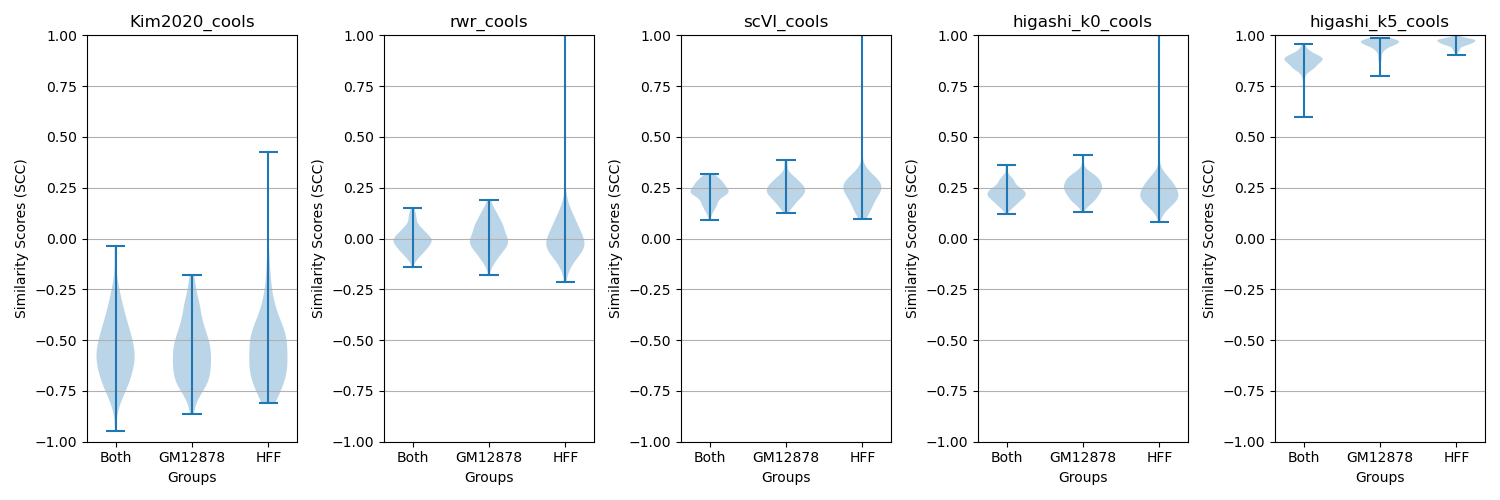
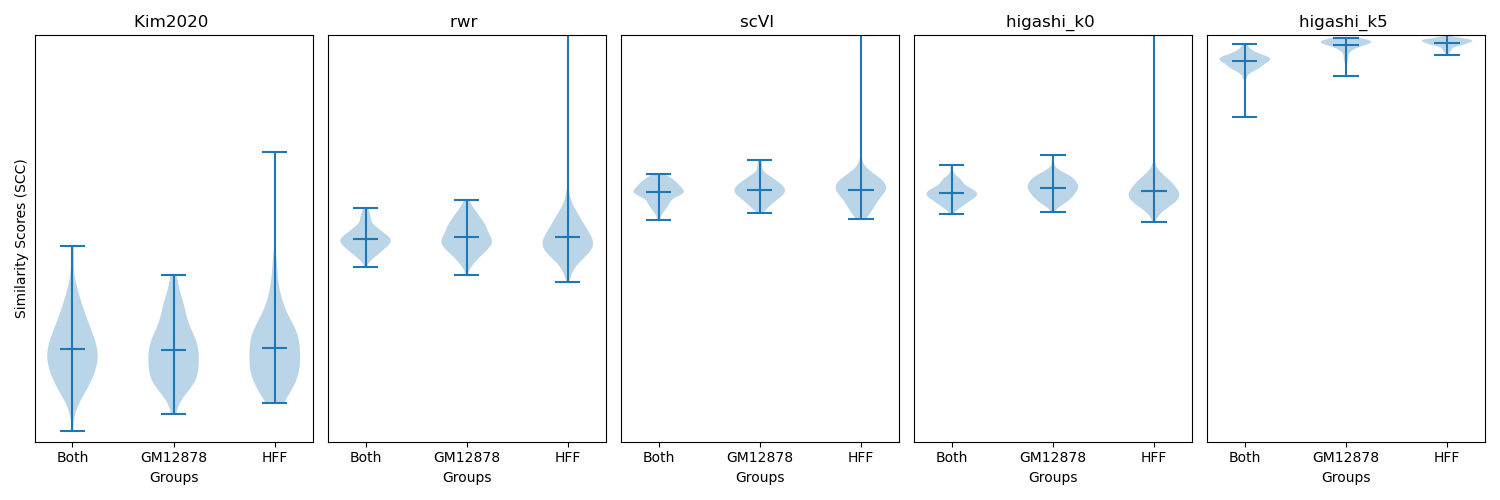
modified plot

diff --git a/experiments/2023-09-18/plot_SCC_2.py b/experiments/2023-09-18/plot_SCC_2.py
@@ -77,9 +77,9 @@ for i, d in enumerate(dirs):
         temp_df = pd.read_csv(os.path.join(d, p), sep='\t')
         temp_df["HiCRep_SCC"] = pd.to_numeric(temp_df["HiCRep_SCC"])
         all_violin_data.append(temp_df["HiCRep_SCC"])
-    print(len(all_violin_data))
+#    print(len(all_violin_data))
     # pos = [j+1] * 5
-    v = ax.violinplot(all_violin_data, positions=[1,2,3], showmeans=False, showmedians=False)                
+    v = ax.violinplot(all_violin_data, positions=[1,2,3], showmeans=True, showmedians=False)                
         # Set colors for the violin bodies
 #    for violin, color in zip(v['bodies'], colors):
 #        violin.set_facecolor(color)
@@ -97,13 +97,16 @@ for i, d in enumerate(dirs):
     ax.set_xticks(x_ticks)
     ax.set_xticklabels(x_tick_labels)
     ax.set_xlabel('Groups')
-    ax.set_ylabel('Similarity Scores (SCC)')
-    ax.set_title(os.path.basename(d))
+    ax.set_ylabel('')
+    ax.set_yticks([])
+    ax.set_title(os.path.basename(d).replace("_cools"," "))
     ax.grid(axis='y')
+
+axes[0].set_ylabel('Similarity Scores (SCC)')
 
 # Add a legend to the first subplot (you can customize this as needed)
 #axes.legend(violins, ["Raw", "RWR", "scVI", "Higashi K0", "Higashi K5"], loc='upper left', bbox_to_anchor=(1, 1))
-
+plt.subplots_adjust(wspace=0)
 plt.tight_layout()
 plt.savefig(os.path.join("/project/compbio-lab/scHi-C/Kim2020/similarity_scores/SCC_plot_h0_subplots.png"))
 plt.savefig(os.path.join("/home/maa160/SnapHiC-D/experiments/2023-09-18/SCC_plot_h0_subplots.png"))
